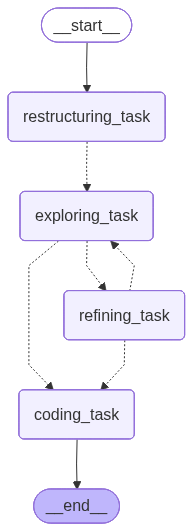
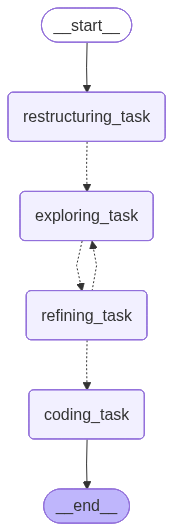
refactor: atualiza lógica de roteamento e status de execução para refinamento

diff --git a/src/graph/edges/route_after_extraction.py b/src/graph/edges/route_after_extraction.py
@@ -11,8 +11,7 @@ def route_after_extraction(state: GenIAState) -> str:
     """Determine the next node after extraction completes.
 
     Routes to:
-        - `REFINING_TASK`: to refine the extracted elements.
-        - `CODING_TASK`: if all modules have already been processed.
+        - `REFINING_TASK`: always routes to refinement after extraction.
 
     Args:
         state: Current workflow state.
@@ -25,8 +24,6 @@ def route_after_extraction(state: GenIAState) -> str:
 
     if execution_status == GenIAStateStatus.REFINING:
         return GenIANodeName.REFINING_TASK.value
-    if execution_status == GenIAStateStatus.CODING:
-        return GenIANodeName.CODING_TASK.value
 
     logger.warning(f"Unexpected status after extraction: {execution_status}")
-    return GenIANodeName.END.value
+    return GenIANodeName.REFINING_TASK.value

diff --git a/src/graph/nodes/refinement.py b/src/graph/nodes/refinement.py
@@ -46,6 +46,11 @@ async def refinement_node(state: GenIAState) -> GenIAState:
     module_idx = state["current_module_index"]
     total_modules = len(refined_test_case.modules)
 
+    if module_idx >= total_modules:
+        logger.info("All modules already refined, moving to coding phase")
+        state["execution_status"] = GenIAStateStatus.CODING
+        return state
+
     refined_extracted_test_case = state.get("refined_extracted_test_case")
     if refined_extracted_test_case is None:
         raise ValueError("refined_extracted_test_case is required for refinement")

diff --git a/src/graph/nodes/extraction.py b/src/graph/nodes/extraction.py
@@ -44,8 +44,8 @@ async def extraction_node(state: GenIAState) -> GenIAState:
     total_modules = len(refined_test_case.modules)
 
     if module_idx >= total_modules:
-        logger.info("All modules extracted, moving to coding phase")
-        state["execution_status"] = GenIAStateStatus.CODING
+        logger.info("All modules already extracted, forwarding to refinement")
+        state["execution_status"] = GenIAStateStatus.REFINING
         return state
 
     # Initialise extracted_test_case on the first module.

diff --git a/src/graph/routing_maps.py b/src/graph/routing_maps.py
@@ -12,7 +12,6 @@ restructuring_routes_map: RouteMap = {
 
 extraction_routes_map: RouteMap = {
     GenIANodeName.REFINING_TASK.value: GenIANodeName.REFINING_TASK.value,
-    GenIANodeName.CODING_TASK.value: GenIANodeName.CODING_TASK.value,
 }
 
 refinement_routes_map: RouteMap = {
